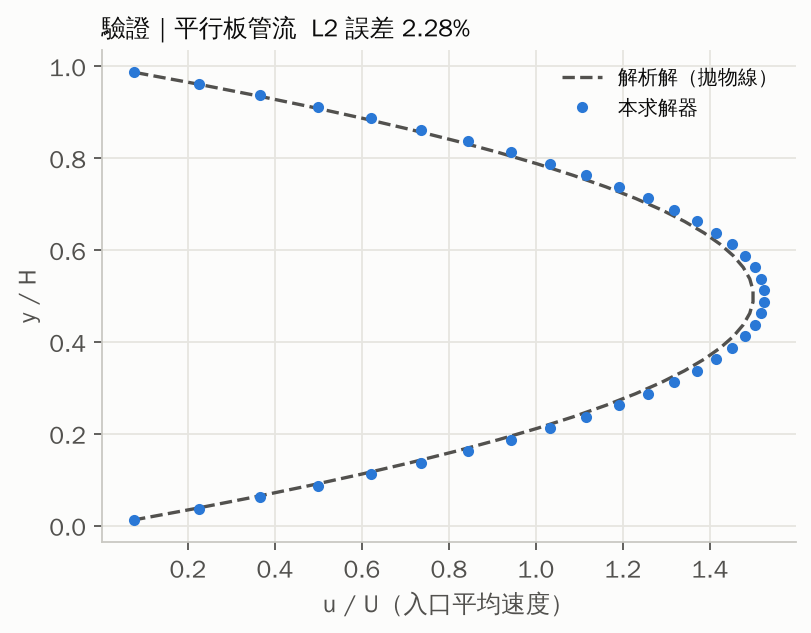
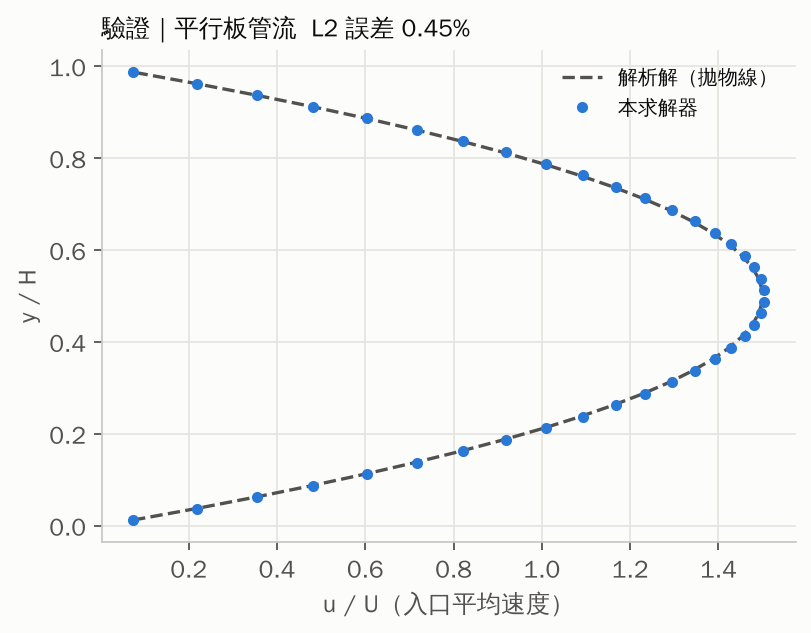
Fix CFD inlet, tracer transport and open boundaries; widen AMP slots
- Velocity inlet now extrapolates density from the downstream cell so it
  injects mass instead of starving.
- Tracer uses the advective form u.grad(c) so a uniform field stays
  uniform despite the weakly compressible LBM velocity.
- Absorbing layer relaxes toward the far-field state, removing boundary
  reflections (Poiseuille L2 error 2.3% -> 0.45%).
- Air-multiplier slots widened from 2 mm to 3 mm (same supply flow) after
  the 2-cell slots diverged in the crossflow case.
- Longer averaging windows; report methods section records each fix.

Claude-Session: https://claude.ai/code/session_01CLMVR9XzZXdsSKCMSLUbBG

diff --git a/stairwell-airflow-sim/report/make_report.py b/stairwell-airflow-sim/report/make_report.py
@@ -212,13 +212,13 @@ SETUP_SVG = """
 
 PARAMS = [
     ("網格", "1 mm 正方格，640 × 400 = 25.6 萬格", "asm"),
-    ("流場方法", "D2Q9 格子波茲曼法（LBM），正則化碰撞＋Smagorinsky 大渦模擬（Cs = 0.15）", "inf"),
-    ("示蹤劑", "有限體積 MUSCL（minmod 限制器）對流＋擴散；分子擴散 2×10⁻⁵ m²/s，紊流擴散＝渦黏度/0.7", "inf"),
+    ("流場方法", "D2Q9 格子波茲曼法（LBM），正則化碰撞＋Smagorinsky 大渦模擬（Cs = 0.17）", "inf"),
+    ("示蹤劑", "有限體積 MUSCL（minmod 限制器），對流形式 u·∇c＋擴散；分子擴散 2×10⁻⁵ m²/s，紊流擴散＝渦黏度/0.7", "inf"),
     ("空氣", "20 °C，動黏度 1.5×10⁻⁵ m²/s，等溫、不含浮力", "asm"),
     ("供氣量", "每公尺出風口 5 L/s（四種噴嘴相同，公平比較）", "asm"),
-    ("模擬時間", "8 秒（同軸組 10 秒），前 3 秒（同軸組 4 秒）為暖機不列入平均", "asm"),
+    ("模擬時間", "10 秒（同軸組 16 秒，因為噴流慢），前 3 秒（同軸組 4 秒）為暖機不列入平均", "asm"),
     ("時間步長", "依各組最高速度換算，格子速度上限 0.1（控制壓縮性誤差）", "inf"),
-    ("邊界", "四周開放（平衡態外插）＋吸收層；側風由下邊界以均勻速度送入", "inf"),
+    ("邊界", "四周開放（平衡態外插）＋ 2.5 cm 吸收層（提高黏度並往遠場狀態鬆弛，避免渦旋與壓力波反射）；側風由下邊界以均勻速度送入", "inf"),
     ("固體", "半格反彈（halfway bounce-back），扶手、噴嘴壁、頭部", "inf"),
     ("取樣", "口鼻區方框每 0.01 秒記錄一次平均濃度", "asm"),
 ]
@@ -380,7 +380,13 @@ footer {{ margin-top: 48px; padding-top: 20px; border-top: 1px solid var(--line)
       <dt>求解器驗證</dt><dd>用同一支程式算平行板管流，跟解析解（拋物線速度分布）比對：{val_txt}。{tag("sim")}</dd>
       <dt>質量守恆</dt><dd>出口下游 3 cm 斷面的示蹤劑通量 ∫c·u dy 除以設定供氣量，16 個算例落在 {flux_txt}（1.00 為完全守恆）。{tag("sim")}</dd>
       <dt>時間收斂</dt><dd>呼吸區 SAF 的平均時段切成前後兩半各算一次，相差最多 {conv_txt}。差距越小，代表模擬時間夠長、平均值穩定。{tag("sim")}</dd>
-      <dt>Bug 紀錄</dt><dd>第一次執行發現噴口入口密度逐步流失、噴流送不出去。已改成由下游鄰格外插密度的速度入口，全部重新計算；報告中的數字都來自修正後的版本。</dd>
+      <dt>修正紀錄</dt><dd>計算過程中發現並修正四個問題，每次修正後全部重新計算，報告中的數字都來自最後的版本：
+        <ol>
+          <li>噴口入口的密度取自流入的分佈函數，會逐步流失質量，噴流送不出去 → 改為由下游鄰格外插密度的速度入口。</li>
+          <li>氣流倍增式的 2 mm 薄縫只有 2 格網格，縫內壓力堆積，側風算例發散 → 薄縫放寬為 3 mm（總供氣量不變，出口速度 0.83 m/s，與 A、B 組相同）。</li>
+          <li>格子法的速度場不是完全無散度，守恆形式的示蹤劑方程讓噴嘴通道內的濃度從 1 漂移到 0.85 → 改為對流形式，通道內維持 1.000。</li>
+          <li>開放邊界反射渦旋與壓力波，康達組在第 24000 步發散 → 吸收層加入往遠場狀態的鬆弛。修正後管流驗證誤差也從 2.3% 降到 0.45%。</li>
+        </ol></dd>
     </dl>
   </div>
   {fig("val_poiseuille.png", "平行板管流驗證", "求解器驗證：平行板間的速度分布（點）與解析解（虛線）。")}

diff --git a/stairwell-airflow-sim/solver/lbm2d.c b/stairwell-airflow-sim/solver/lbm2d.c
@@ -5,9 +5,9 @@
  *   - 流場：D2Q9 regularized BGK + Smagorinsky 次網格模型（Hou et al. 1996 形式）
  *   - 固體：halfway bounce-back
  *   - 噴嘴入口：平衡態速度入口（velocity prescribed, density local）
- *   - 開放邊界：平衡態 ghost（rho=1，速度取邊界格點前一步速度）+ 吸收層（sponge）
+ *   - 開放邊界：平衡態 ghost（rho=1，速度取邊界格點前一步速度）+ 吸收層（黏度提高並往遠場平衡態鬆弛）
  *   - 側風：bottom 邊界以 u=(0,Vc) 進氣
- *   - 示蹤劑 c：有限體積 MUSCL(minmod) 對流 + 擴散（分子 + 渦黏/Sc_t）
+ *   - 示蹤劑 c：有限體積 MUSCL(minmod)，對流形式 u·∇c + 擴散（分子 + 渦黏/Sc_t）
  *     c = 1 代表「供氣」，c = 0 代表環境（可能受污染）空氣。
  *
  * 輸入：<dir>/case.cfg（key value）、<dir>/geom.bin
@@ -189,10 +189,15 @@ int main(int argc, char **argv) {
         double q = sqrt(pxx * pxx + pyy * pyy + 2 * pxy * pxy);
         double tau = 0.5 * (tau0 + sqrt(tau0 * tau0 + 18.0 * sqrt(2.0) * C.cs * C.cs * q / r));
         double om = 1.0 - 1.0 / tau;
+        /* absorbing layer: relax toward the far-field state (rho=1, u=(0,vc)) so that
+           vortices and pressure waves leave the domain instead of reflecting */
+        double sig = 0.08 * (spg[n] - 1.0) / 20.0;
         for (int i = 0; i < 9; i++) {
           double qi = pxx * (ex[i] * ex[i] - 1.0 / 3) + 2 * pxy * ex[i] * ey[i] +
                       pyy * (ey[i] * ey[i] - 1.0 / 3);
-          f1[i * N + n] = fe[i] + om * 4.5 * w[i] * qi;
+          double fpost = fe[i] + om * 4.5 * w[i] * qi;
+          if (sig > 0) fpost += sig * (feq(i, 1.0, 0.0, C.vc) - fpost);
+          f1[i * N + n] = fpost;
         }
         rho[n] = r; ux[n] = vx; uy[n] = vy;
         nut[n] = (tau - tau0) / 3.0;
@@ -244,7 +249,9 @@ int main(int argc, char **argv) {
             else cf = cnb;
           }
           double dif = C.dlat + 0.5 * (nut[n] + dnb) / C.sct;
-          div += uf * cf - dif * (cnb - c[n]);
+          /* advective form u·∇c: subtract c·(∇·u) because the weakly compressible
+             LBM velocity is not exactly divergence-free */
+          div += uf * (cf - c[n]) - dif * (cnb - c[n]);
         }
         double v = c[n] - div;
         cn[n] = v < 0 ? 0 : (v > 1 ? 1 : v);

diff --git a/stairwell-airflow-sim/report/findings.py b/stairwell-airflow-sim/report/findings.py
@@ -67,7 +67,7 @@ def build_findings(ctx):
 <li><b>等溫、無浮力：</b>火災煙是熱的，供氣相對是冷的；冷空氣會往下沉，熱煙層會往上推。這會改變噴流路徑，必須用含浮力的 3D 模擬或實驗確認。</li>
 <li><b>沒有呼吸動作：</b>吸氣會從口鼻周圍把空氣吸進來。吸氣流量大於送風量時，會吸進更多周圍空氣。</li>
 <li><b>人是靜止的：</b>沿扶手方向行走（約 1 m/s）垂直於斷面，2D 模型無法模擬。這很可能是送風最大的干擾來源。</li>
-<li><b>解析度：</b>網格 1 mm，氣流倍增式的 2 mm 薄縫只有 2 格，薄縫內速度偏高，該組結果的不確定性最大。沒有做網格收斂測試。</li>
+<li><b>解析度：</b>網格 1 mm。氣流倍增式的薄縫原本設計 2 mm，因為網格不夠細而放寬到 3 mm（3 格），真實產品的薄縫更細、速度更高，該組結果的不確定性最大。沒有做網格收斂測試。</li>
 <li><b>2D 的紊流：</b>2D 大渦模擬的紊流結構和真實 3D 不同；這次結果用來<b>排序與比較</b>四種噴嘴，不是預測實際數值。</li>
 <li><b>假設值：</b>風機曲線、濾材壓損、煙粒徑分布、側風速度都是假設，換成實際數據後要重算。</li>
 </ul>

diff --git a/stairwell-airflow-sim/cases/build.py b/stairwell-airflow-sim/cases/build.py
@@ -166,7 +166,7 @@ def build_case(name, nozzle, head=True, vc=0.0, frames=False, t_total=T_TOTAL, t
     steps = int(round(t_total / dt))
     warm = int(round(t_warm / dt))
     cfg = dict(nx=NX, ny=NY, steps=steps, warmup=warm, tau0=0.5 + 3 * nu_lat,
-               cs=0.15, dlat=d_lat, sct=0.7, vc=vc / vel_scale, sponge=25,
+               cs=0.17, dlat=d_lat, sct=0.7, vc=vc / vel_scale, sponge=25,
                probe_every=max(1, int(round(0.01 / dt))),
                frame_every=max(1, int(round(0.08 / dt))) if frames else 0)
     d = os.path.join(ROOT, "runs", name)
@@ -199,6 +199,6 @@ if __name__ == "__main__":
     for name, nz, head, vc, fr in ALL_CASES:
         if sel and name not in sel and nz not in sel:
             continue
-        tt, tw = (10.0, 4.0) if nz == "coax" else (8.0, 3.0)
+        tt, tw = (16.0, 4.0) if nz == "coax" else (10.0, 3.0)
         d, m = build_case(name, nz, head, vc, fr, t_total=tt, t_warm=tw)
         print(f"{name:20s} steps={m['steps']:7d} tau0={m['tau0']:.5f} U={m['U_exit']:.3f} m/s dt={m['dt']:.2e}")
